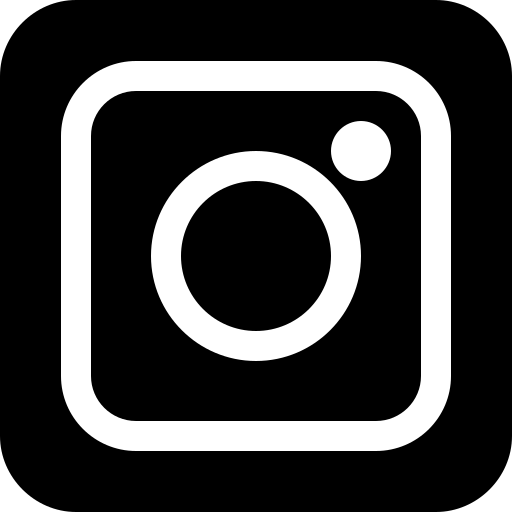
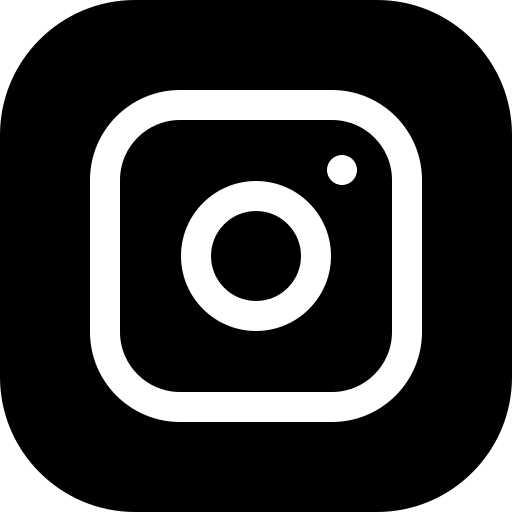
changed pic, given credit, and size

diff --git a/styles.css b/styles.css
@@ -91,13 +91,16 @@ body {
 	position: relative;
 	top: 100px;
 
-	width: 27px;
-	height: 27px;
+	width: 26.5px;
+	height: 26.5px;
 
-	transform: translateX(3400%);
+	transform: translateX(2825%);
 
 	margin-left: 15px;
 	margin-right: 17px;
+
+	/* Icons made by <a href="https://www.flaticon.com/authors/pixel-perfect" title="Pixel perfect">Pixel perfect</a> from <a href="https://www.flaticon.com/" title="Flaticon"> www.flaticon.com</a> */
+
 }
 
 /* ABOUT PAGE ONLY */
